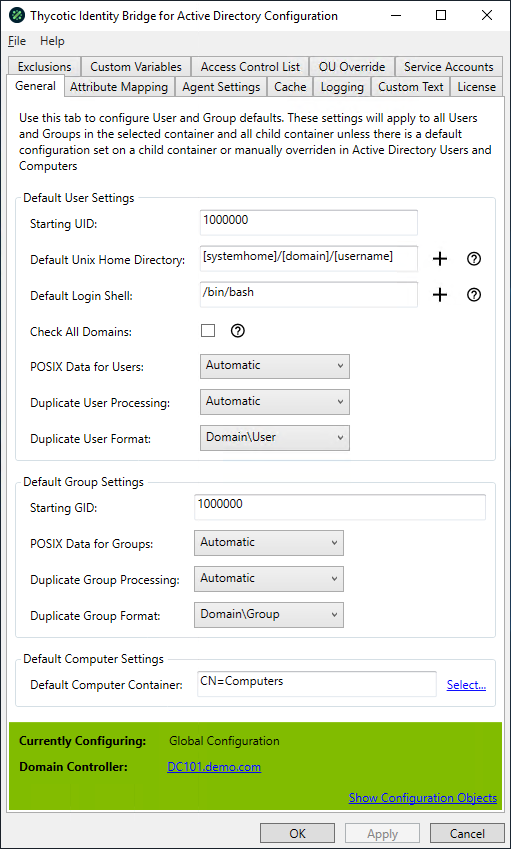
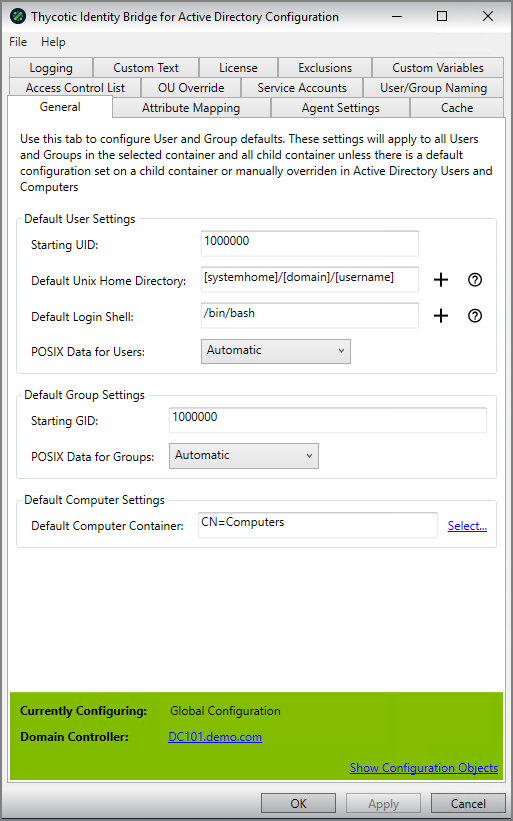
#216083: new tab in utility

Changed region(s): [[0.0, 0.0, 1.0, 1.0], [0.91, 0.2741, 0.9393, 0.3959], [0.8513, 0.3045, 0.8806, 0.3959]]

diff --git a/cfg-util/general/index.md b/cfg-util/general/index.md
@@ -29,12 +29,6 @@ The Shell that will be assigned to the user when logging into the Linux/Unix hos
 
 * Default: /bin/bash 
 
-### Check All Domains
-
-This setting forces searches to halt if a domain being searched is offline. If this setting is disabled, such domains will be ignored and the search will continue on available domains.
-
-* Check All Domains unchecked by Default
-
 ### POSIX Data for Users
 
 Defines if User POSIX data to be defined by Active Directory before Users are able to login into the Linux/Unix Hosts.
@@ -43,25 +37,6 @@ Defines if User POSIX data to be defined by Active Directory before Users are ab
 * Automatic - If there is no POSIX data on the user in Active Directory (i.e. No UID/Shell/Home Dir), then generate POSIX data for the user during authentication.
 * Manual - POSIX data will need to be specified for each User in ADUC before being able to authenticate to Linux/Unix Hosts
 * Always - Always generate POSIX data during authentication, even if POSIX data has been set on user  object
-
-### Duplicate User Processing
-
-Defines how Identity Bridge will process Duplicate Active Directory usernames when user logs into the Linux/Unix Hosts.
-
-* Default: Automatic
-* Never - Ignore Duplicate users
-* Automatic - Generates a unique user name by adding or appending the domain information to the user for all domains except for the joined domain.
-* Only Duplicates - Generates a unique user name by adding or appending the domain information to the user when a duplicate name is detected.
-* Always - Generates a unique user name by adding or appending the domain information to the user for all domains.
-
-### Duplicate User Format
-
-Defines the format for the Active Directory username displayed on the Linux/Unix Host when the Active Directory username is duplicated due to a multi-active Domain environment.
-
-* Default: Domain/User
-* Domain/User - Example: demo/user1
-* User_Domain - Example: user1_demo
-* User@Domain - Example: user1@demo
 
 ## Default Group Settings
 
@@ -82,25 +57,6 @@ Defines if Group POSIX data to be defined by Active Directory before Users are a
 * Manual - POSIX data will need to be specified for each Group in ADUC before being able to authenticate to Linux/Unix Hosts.
 * Primary Group Only - Generate GID for users primary group if Primary Group does not have an existing GID.
 * Always - Always generate POSIX data during authentication, even if POSIX data has been set on group object.
-
-### Duplicate Group Processing
-
-Defines how Identity Bridge will process Duplicate Active Directory groups with
-users logging into the Linux/Unix Hosts
-
-* Default: Automatic
-* Never - Ignore Duplicate groups
-* Automatic - Generates a unique group name by adding or appending the domain information to the group for all domains except for the joined domain.
-* Only Duplicates - Generates a unique group name by adding or appending the domain information to the group when a duplicate name is detected.
-* Always - Generates a unique group name by adding or appending the domain information to the group for all domains.
-
-### Duplicate Group Format
-
-Defines the format in which the Active Directory group will be displayed on the Linux/Unix Host when the Active Directory username is duplicated due to a multi-active Domain environment.
-
-* Default: Domain/Group
-* Domain/Group - Example: [demo](http://demo.com)/group1
-* Group_Domain - Example: group1_demo
 
 ## Default Computer Settings
 

diff --git a/cfg-util/user-group/index.md b/cfg-util/user-group/index.md
@@ -1,0 +1,66 @@
+[title]: # (User/Group Naming)
+[tags]: # (panel)
+[priority]: # (6)
+# User/Group Naming Tab
+
+Used to configure how Users and Groups are displayed.
+
+![user-group](../images/user-group.png "User/Group Naming tab")
+
+## Separator Characters
+
+### Space Replacement Character
+
+Defines how spaces in User and Group names will be displayed on the Unix/Linux hosts.
+
+Default: __^__
+
+### Domain/User Separator
+
+Defines how the separator between the Domain and User name is displayed.
+
+Default: __/__
+
+### Domain/Group Separator
+
+Defines how the separator between the Domain and Group name is displayed.
+
+Default: __/__
+
+## User Name Formatting
+
+### User Uniqueness Processing
+
+Defines how Identity Bridge will process Duplicate Active Directory usernames when user logs into the Unix/Linux Hosts
+
+* Default: Automatic
+* Never - Ignore Duplicate users
+* Automatic - Generates a unique user name by adding or appending the domain information to the user for all domains except for the joined domain.
+* Only Duplicates - Generates a unique user name by adding or appending the domain information to the user when a duplicate name is detected.
+* Always - Generates a unique user name by adding or appending the domain information to the user for all domains.
+
+### User Uniqueness Format
+
+Defines the order in which the Active Directory username will be displayed on the Unix/Linux Host when the Active Directory username is duplicated due to a Multi Active Domain environment
+
+* Default: Domain/User
+* The selection will reflect the defined Domain/User Separator.
+
+## Group Name Formatting
+
+### Group Uniqueness Processing
+
+Defines how Identity Bridge will process Duplicate Active Directory groups with users logging into the Linux\Unix Hosts
+
+* Default: Automatic
+* Never - Ignore Duplicate groups
+* Automatic - Generates a unique group name by adding or appending the domain information to the group for all domains except for the joined domain.
+* Only Duplicates - Generates a unique group name by adding or appending the domain information to the group when a duplicate name is detected.
+* Always - Generates a unique group name by adding or appending the domain information to the group for all domains.
+
+### Group Uniqueness Format
+
+Defines the order in which the Active Directory group will be displayed on the Unix/Linux Host when the Active Directory username is duplicated due to a Multi Active Domain environment.
+
+* Default: Domain/Group
+* The selection will reflect the defined Domain/Group Separator.

diff --git a/cfg-util/index.md b/cfg-util/index.md
@@ -53,6 +53,10 @@ Allows custom messages to be defined. The messages are displayed to user when ac
 
 Shows an overview of where all Thycotic Identity Bridge configuration objects are stored in Active Directory.
 
+## [User/Group Naming](user-group/index.md)
+
+Used to configure how Users and Groups are displayed.
+
 ## [File Menu](file-menu/index.md)
 
 The [File Menu](file-menu/index.md) of the configuration utility offers options like:
